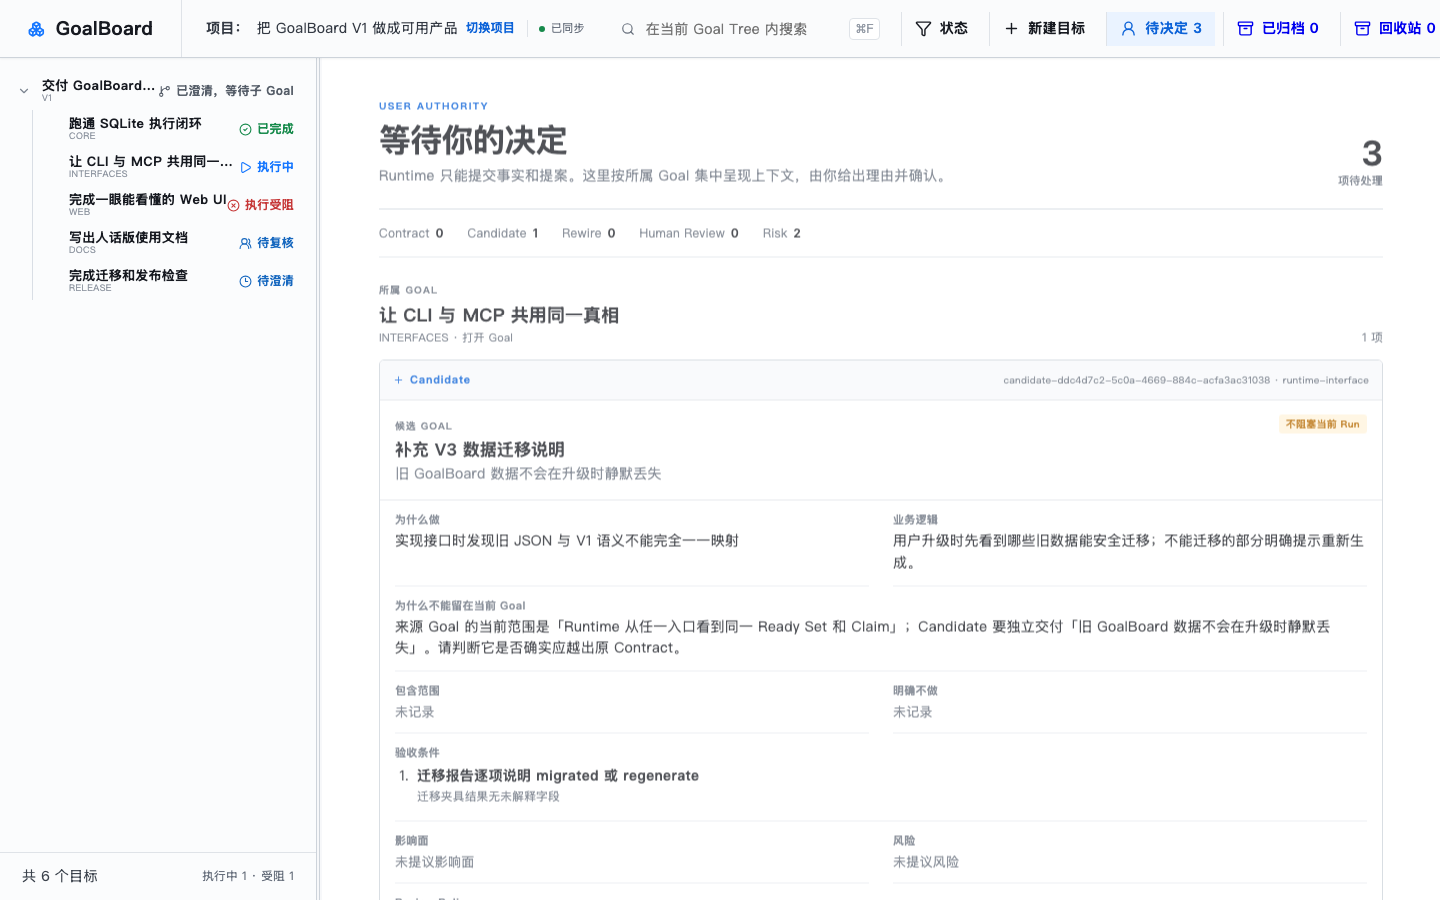
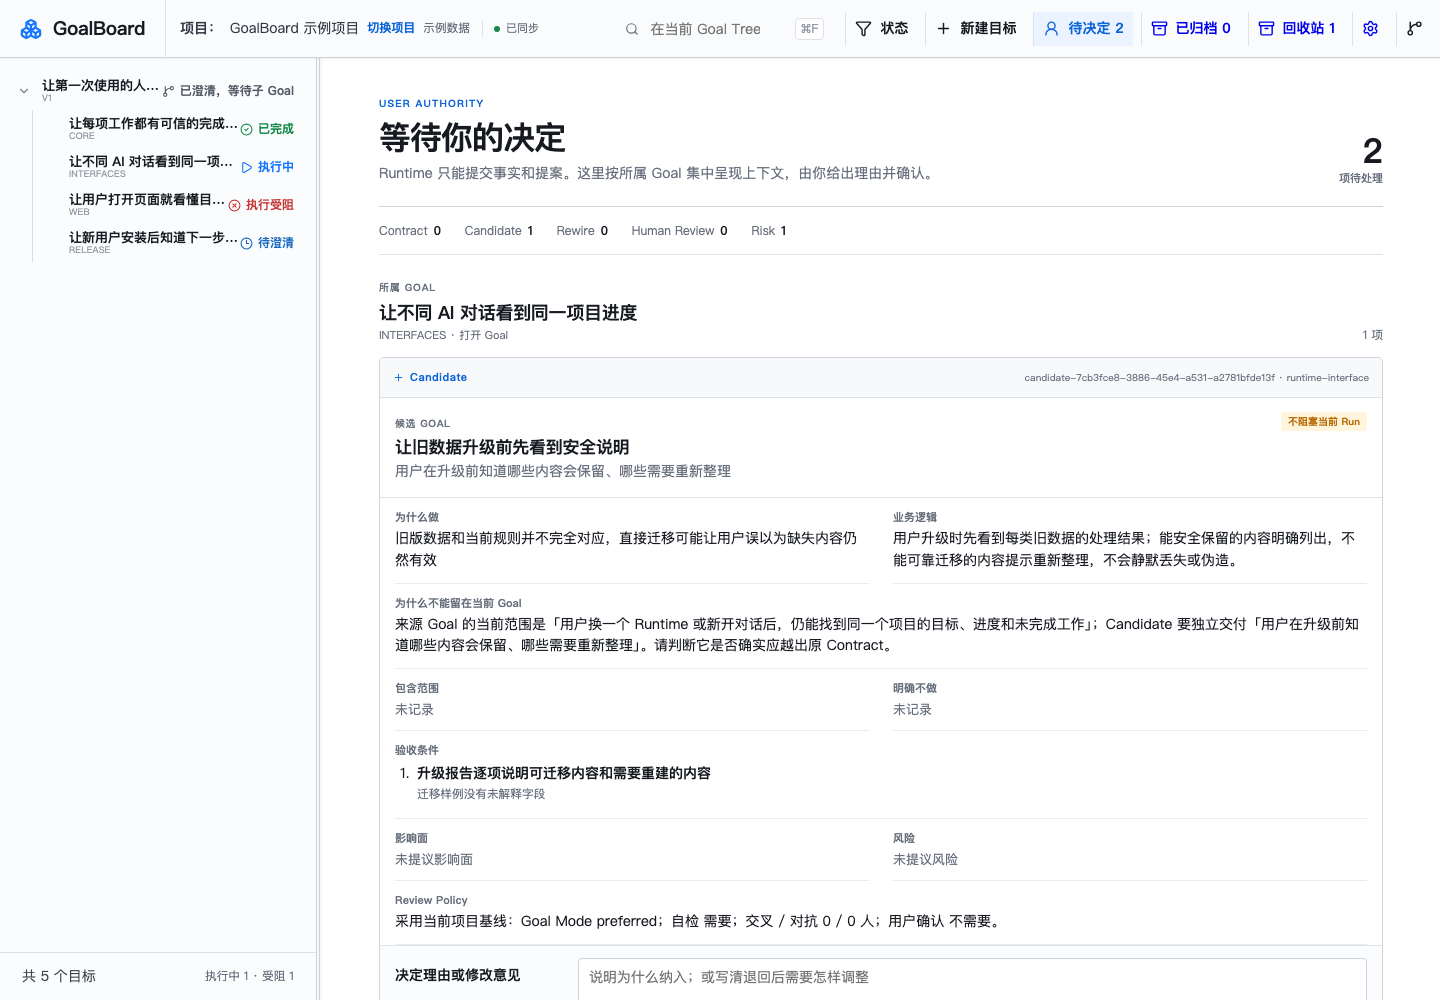
fix: keep goal navigation visible

diff --git a/src/web/render.ts b/src/web/render.ts
@@ -2704,20 +2704,22 @@ const RESPONSIVE_STYLES = `
     .impact-form footer { align-items: stretch; flex-direction: column; }
     .impact-form footer button { align-self: flex-end; }
   }
-  @media (max-width: 1360px) {
+  @media (max-width: 1500px) {
     .brand { min-width: 160px; padding-inline: 20px; }
     .project-context { min-width: 0; padding-inline: 14px; }
     .project-context > span:not(.sync-state) { max-width: 150px; overflow: hidden; text-overflow: ellipsis; }
     .global-search { min-width: 180px; max-width: 220px; }
     .top-action { padding-inline: 9px; }
+    .top-action[data-settings-link] span, .top-action[data-collapse-all] span { display: none; }
   }
   @media (max-width: 1180px) {
     .app, .topbar, .workspace { min-width: 0; }
     .workspace { grid-template-columns: var(--tree-width, 280px) 5px minmax(0, 1fr); }
     .project-context { min-width: 0; padding-inline: 16px; }
-    .project-context > span:not(.sync-state) { max-width: 170px; overflow: hidden; text-overflow: ellipsis; }
-    .global-search { min-width: 190px; }
-    .top-action { padding-inline: 10px; }
+    .project-context > span:not(.sync-state) { max-width: 120px; overflow: hidden; text-overflow: ellipsis; }
+    .global-search { min-width: 140px; max-width: 180px; }
+    .top-action { padding-inline: 8px; }
+    .top-action span { display: none; }
     .runtime-grid { grid-template-columns: 1fr 1fr; }
     .runtime-grid > section:nth-child(2) { border-right: 0; }
     .runtime-grid > section:nth-child(-n+2) { border-bottom: 1px solid var(--line-strong); }
@@ -5206,7 +5208,7 @@ FINISH: unreviewed and undocumented is unfinished; this build ends with the fini
       <a class="top-action${decisionView ? " is-current" : ""}" data-view-action data-decisions-link href="/decisions" aria-label="待决定 ${pendingDecisionCount(view)}"${decisionView ? ' aria-current="page"' : ""}>${icon("user")}<span>待决定 ${pendingDecisionCount(view)}</span></a>
       <a class="top-action${archiveView ? " is-current" : ""}" data-view-action href="${archiveView ? "/" : "/archive"}" aria-label="${archiveView ? "返回 Goal Tree" : "查看已归档 Goal"}"${archiveView ? ' aria-current="page"' : ""}>${icon(archiveView ? "tree" : "archive")}<span>${archiveView ? "返回 Goal Tree" : `已归档 ${view.archived_goals.length}`}</span></a>
       <a class="top-action${trashView ? " is-current" : ""}" data-view-action href="${trashView ? "/" : "/trash"}" aria-label="${trashView ? "返回 Goal Tree" : "查看回收站"}"${trashView ? ' aria-current="page"' : ""}>${icon(trashView ? "tree" : "archive")}<span>${trashView ? "返回 Goal Tree" : `回收站 ${view.trashed_goals.length}`}</span></a>
-      <a class="top-action" href="__SETTINGS__" aria-label="打开 GoalBoard 设置">${icon("settings")}<span>设置</span></a>
+      <a class="top-action" data-settings-link href="__SETTINGS__" aria-label="打开 GoalBoard 设置">${icon("settings")}<span>设置</span></a>
       <button class="top-action" type="button" data-view-action data-collapse-all>${icon("tree")}<span>收起</span></button>
     </header>
     <nav class="mobile-switch" role="tablist" aria-label="移动端视图"><button class="is-active" type="button" role="tab" aria-selected="true" aria-controls="goal-tree-pane" data-mobile-target="tree">Goal Tree</button><button type="button" role="tab" aria-selected="false" aria-controls="goal-document-pane" data-mobile-target="document">${decisionView ? "决定中心" : "Goal 正文"}</button></nav>

diff --git a/tests/web.test.ts b/tests/web.test.ts
@@ -441,6 +441,9 @@ test("Web view derives understandable Goal states from canonical SQLite facts", 
   assert.match(html, /data-select-goal/);
   assert.match(html, /data-global-search/);
   assert.equal((html.match(/<input type="search" data-global-search/g) ?? []).length, 1);
+  assert.match(html, /data-settings-link/);
+  assert.match(html, /@media \(max-width: 1500px\)[\s\S]*\.top-action\[data-settings-link\] span, \.top-action\[data-collapse-all\] span \{ display: none; \}/);
+  assert.match(html, /@media \(max-width: 1180px\)[\s\S]*\.top-action span \{ display: none; \}/);
   assert.doesNotMatch(html, /data-tree-search|class="tree-heading"|class="tree-search"/);
   assert.equal((html.match(/data-open-create aria-label="新建目标"/g) ?? []).length, 1);
   assert.match(html, /class="top-filter-control">[\s\S]*data-tree-filter-trigger[\s\S]*id="tree-status-filter"/);

diff --git a/tests/e2e.test.ts b/tests/e2e.test.ts
@@ -210,6 +210,7 @@ test("packed release completes fresh install, Web setup, Runtime dialogue, resta
 
     const packedReadme = await readFile(join(packageDirectory, "README.md"), "utf8");
     assert.match(packedReadme, /goalboard install/);
+    assert.match(packedReadme, /docs\/screenshots\/goalboard-tree\.png/);
     assert.match(packedReadme, /goalboard-web/);
     assert.match(packedReadme, /goalboard_v1_context_resolve/);
     assert.match(packedReadme, /git pull --ff-only/);

diff --git a/specs/external-release-hardening/completion-audit.md b/specs/external-release-hardening/completion-audit.md
@@ -32,22 +32,17 @@ Work Item spec 为准。
 | 卸载不能误删用户项目 | 普通卸载只撤销 owned 程序/配置/服务并删除 regenerable demo；purge 另需精确 home+项目数 | `tests/uninstall.test.ts`；真实全新用户清场与复原已完成 | 通过 |
 | MCP 宿主枚举 resource templates 不能报错 | `resources/list` 与 `resources/templates/list` 都返回空列表 | `tests/mcp.test.ts`、`tests/e2e.test.ts` | 通过 |
 | 页面不能一次渲染全部 Goal，搜索时不能被自动同步抢占 | 初始只渲染当前 Goal；点击按需取 document；搜索输入期间延后/合并 cursor 同步 | `tests/web.test.ts`；安装后每页 1 个 Goal document、约 190–236KB | 通过 |
-| 顶栏不能和列表页重复搜索、新建、归档、回收站；设置页高度要一致 | 搜索、状态筛选、新建、待决定、归档和回收站统一在顶栏；桌面/移动顶栏高度统一 | `tests/web.test.ts` 导航唯一性与高度断言 | 自动化通过，待视觉复核 |
+| 顶栏不能和列表页重复搜索、新建、归档、回收站；设置页高度要一致 | 搜索、状态筛选、新建、待决定、归档和回收站统一在顶栏；桌面/移动顶栏高度统一；1440px 对次要动作收起文字，保证回收站“返回 Goal Tree”、设置和收起不被裁切 | `tests/web.test.ts` 导航/响应式断言；真实 Chrome 1440px Goal Tree、回收站与设置截图 | 通过 |
 | Goal 默认内容要先说业务问题、价值、结果和流程 | Skill/protocol 在 Draft 与 Proposal 前逐条检查 title/outcome/why/business_logic；技术细节留在约束/验收 | Skill 文本回归、quick validation、`plain-language-goal-presentation/spec.md` | 通过 |
 | 原有正文内容不能继续乱分块 | 当前 Goal 是五段连续文档，不新增第二套字段或总括“执行细节”折叠 | `tests/web.test.ts` 五段顺序与表单保留断言 | 自动化通过，待视觉复核 |
-| demo 与 README 要适合朋友第一次看 | demo 使用人话 Goal，覆盖完成/推进中/依赖阻塞/待澄清、Candidate、Risk 和回收站；README 有 3 分钟与更新路径 | `src/v1/demo.ts`；catalog/web/E2E 测试；本机 reset 后真实 API/HTML | 内容通过，截图待更新 |
+| demo 与 README 要适合朋友第一次看 | demo 使用人话 Goal，覆盖完成/推进中/依赖阻塞/待澄清、Candidate、Risk 和回收站；README 有当前 Goal Tree 截图、3 分钟与更新路径 | `src/v1/demo.ts`；catalog/web/E2E 测试；当前 Chrome 重拍的项目列表、Goal Tree、决定中心和 Runtime 设置截图 | 通过 |
 
 ## 仍未完成的交付门槛
 
-1. **真实桌面与移动端视觉/交互 QA。** 需求书要求操作搜索、切换 Goal、设置、demo、回收站、
-   自动同步并检查移动布局。当前 Codex Session 没有暴露 Browser/Computer Use 所需的 UI 控制入口，
-   因此只有 HTTP、渲染结构和自动化证据，不能标记视觉通过。
-2. **README 真实截图更新。** 与当前五段正文和新版 demo 内容不一致的旧决定中心截图已经停止引用；
-   必须在真实浏览器验收构建中重拍 Goal Tree、决定中心和设置页，不能用合成图代替。
-3. **增量进入 main。** onboarding 主改动与新版 demo/更新文档已经由 PR #5、#6 合入 `main`；
+1. **增量进入 main。** onboarding 主改动与新版 demo/更新文档已经由 PR #5、#6 合入 `main`；
    Runtime 自然语言启动路由与服务健康就绪修复位于 PR #7，GitHub 判定可合并，仍在等待 main
    规则要求的 reviewer 批准。
-4. **GoalBoard 验收记录回写。** 当前 Session 没有加载 `goalboard_v1_*` 工具。按 Runtime Skill
+2. **GoalBoard 验收记录回写。** 当前 Session 没有加载 `goalboard_v1_*` 工具。按 Runtime Skill
    不能用 CLI、SQLite 或 management MCP 代替；需要在工具已加载的新 Session 中连接用户选择的项目后写回。
 
 ## 最近一次验证
@@ -64,4 +59,10 @@ packed release fresh-install E2E                    PASS
 /health                                              200, project_count=2
 demo tree / decisions / trash                       200 / 200 / 200
 demo 导航                                            待决定 2 / 回收站 1
+真实 Chrome 1440px                                  Goal Tree / 决定中心 / 回收站 / Runtime 设置 PASS
+真实 Chrome 390px                                   Goal Tree → Goal 正文切换 PASS
+搜索“不同 AI”                                      显示 1 / 5；父级路径保留
+切换 Goal / 按需正文                                CORE；DOM 仅 1 份 Goal 正文
+等待自动同步                                         已同步 → 已同步
+README 截图                                          当前构建真实重拍 4 张
 ```

diff --git a/specs/external-release-hardening/work-items/public-readme-and-e2e/spec.md b/specs/external-release-hardening/work-items/public-readme-and-e2e/spec.md
@@ -19,6 +19,8 @@
 - 真实 tarball E2E 覆盖全新 home、build/pack/install、同版本 refresh、MCP 标准枚举、Runtime
   接入与重启续接、workspace 多项目、对话决定、LaunchAgent fixture 和安全 uninstall。
 - 浏览器验收桌面/移动、搜索、切换 Goal、设置、demo、回收站与自动同步。
+- 1440px 桌面下，普通 Goal Tree、回收站和归档页的顶栏入口必须全部留在视口内；中等宽度可把
+  设置/收起等次要入口收成图标，较窄桌面可把所有顶栏动作收成图标，但必须保留 `aria-label`。
 - 修复真实安装验收暴露的两个发布阻塞：macOS `restart` 必须等待旧 LaunchAgent
   完成卸载并在有限时间内确认新进程已运行；Runtime Contract 返回的 Web 地址必须包含其
   已选择的 `project_id`，不能落到多项目入口中不存在的 `/goals/:id`。
@@ -37,6 +39,8 @@
 - 所有截图来自验收构建，页面与 README 步骤一致。
 - 新用户路径不要求先手动构造 GoalBoard 数据。
 - 完整测试、pack dry-run、Skill 校验和关键浏览器流程通过。
+- 1440px 回收站页能完整看到“返回 Goal Tree”、设置与收起入口，不发生横向裁切；移动端可在
+  Goal Tree 与 Goal 正文间切换并看见人话目标说明。
 - 当前机器真实清场后不借用旧 DB/配置即可完成新安装；最终留下的是新流程生成的正常状态，
   项目源码和非 GoalBoard 配置没有被删除或改写。
 - Codex App 只有 `~/.codex`、没有 `codex` CLI 的真实环境会显示“未接入”而不是“未检测到”，
